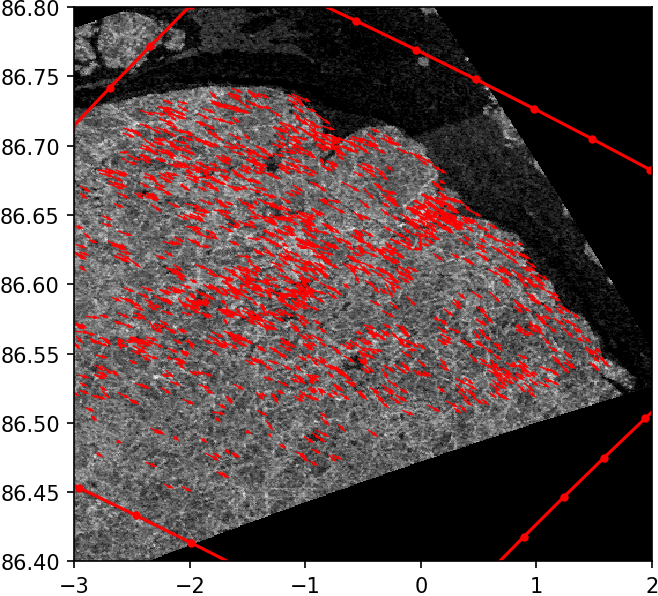
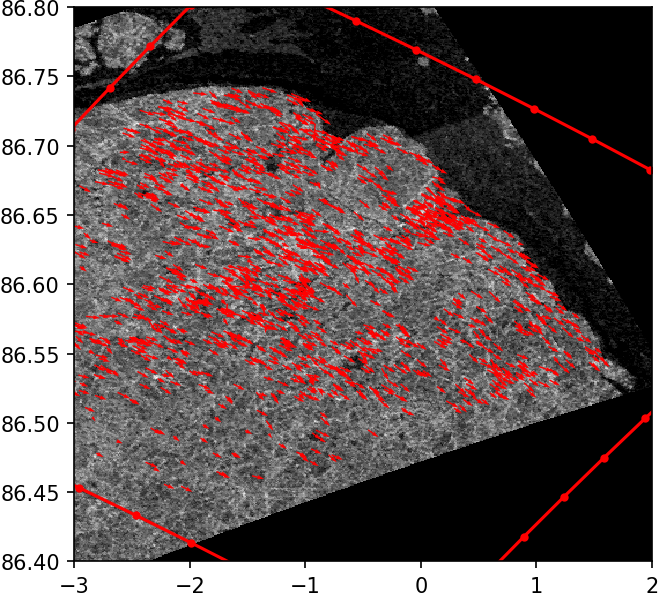
optional use of time_coverage_start

diff --git a/sea_ice_drift/tests.py b/sea_ice_drift/tests.py
@@ -50,7 +50,7 @@ from sea_ice_drift.pmlib import (get_rotated_template,
 
 from sea_ice_drift.seaicedrift import SeaIceDrift
 
-class SeaIceDriftLibTests(unittest.TestCase):
+class SeaIceDriftTestBase(unittest.TestCase):
     def setUp(self):
         ''' Load test data '''
         testDir = os.getenv('ICE_DRIFT_TEST_DATA_DIR')
@@ -61,20 +61,19 @@ class SeaIceDriftLibTests(unittest.TestCase):
             sys.exit('Not enough test files in %s' % testDir)
         # sort by date
         dates = [os.path.basename(f).split('_')[4] for f in testFiles]
-        self.testFiles = [str(f)
-                     for f in np.array(testFiles)[np.argsort(dates)]]
+        self.testFiles = [str(f) for f in np.array(testFiles)[np.argsort(dates)]]
         self.n1 = Nansat(self.testFiles[0])
         self.n2 = Nansat(self.testFiles[1])
-        self.img1 = self.n1['sigma0_HV']
-        self.img2 = self.n2['sigma0_HV']
         self.imgMin = 0.001
         self.imgMax = 0.013
         self.nFeatures = 5000
+        self.img1 = get_uint8_image(self.n1['sigma0_HV'], self.imgMin, self.imgMax)
+        self.img2 = get_uint8_image(self.n2['sigma0_HV'], self.imgMin, self.imgMax)
 
+class SeaIceDriftLibTests(SeaIceDriftTestBase):
     def test_get_uint8_image(self):
         ''' Shall scale image values from float (or any) to 0 - 255 [uint8] '''
-
-        imageUint8 = get_uint8_image(self.img1, self.imgMin, self.imgMax)
+        imageUint8 = get_uint8_image(self.n1['sigma0_HV'], self.imgMin, self.imgMax)
         plt.imsave('sea_ice_drift_tests_%s.png' % inspect.currentframe().f_code.co_name,
                     imageUint8, vmin=0, vmax=255)
 
@@ -84,10 +83,8 @@ class SeaIceDriftLibTests(unittest.TestCase):
 
     def test_get_displacement_km(self):
         ''' Shall find matching coordinates and plot quiver in lon/lat'''
-        img1 = get_uint8_image(self.img1, self.imgMin, self.imgMax)
-        img2 = get_uint8_image(self.img2, self.imgMin, self.imgMax)
-        keyPoints1, descr1 = find_key_points(img1, nFeatures=self.nFeatures)
-        keyPoints2, descr2 = find_key_points(img2, nFeatures=self.nFeatures)
+        keyPoints1, descr1 = find_key_points(self.img1, nFeatures=self.nFeatures)
+        keyPoints2, descr2 = find_key_points(self.img2, nFeatures=self.nFeatures)
         x1, y1, x2, y2 = get_match_coords(keyPoints1, descr1,
                                           keyPoints2, descr2)
         h = get_displacement_km(self.n1, x1, y1, self.n2, x2, y2)
@@ -100,10 +97,8 @@ class SeaIceDriftLibTests(unittest.TestCase):
 
     def test_get_displacement_pix(self):
         ''' Shall find matching coordinates and plot quiver in pixel/line'''
-        img1 = get_uint8_image(self.img1, self.imgMin, self.imgMax)
-        img2 = get_uint8_image(self.img2, self.imgMin, self.imgMax)
-        keyPoints1, descr1 = find_key_points(img1, nFeatures=self.nFeatures)
-        keyPoints2, descr2 = find_key_points(img2, nFeatures=self.nFeatures)
+        keyPoints1, descr1 = find_key_points(self.img1, nFeatures=self.nFeatures)
+        keyPoints2, descr2 = find_key_points(self.img2, nFeatures=self.nFeatures)
         x1, y1, x2, y2 = get_match_coords(keyPoints1, descr1,
                                           keyPoints2, descr2)
         u, v = get_displacement_pix(self.n1, x1, y1, self.n2, x2, y2)
@@ -126,10 +121,8 @@ class SeaIceDriftLibTests(unittest.TestCase):
         self.assertEqual(n[1].max(), 255)
 
     def test_x2y2_interpolation_poly(self):
-        img1 = get_uint8_image(self.img1, self.imgMin, self.imgMax)
-        img2 = get_uint8_image(self.img2, self.imgMin, self.imgMax)
-        keyPoints1, descr1 = find_key_points(img1, nFeatures=self.nFeatures)
-        keyPoints2, descr2 = find_key_points(img2, nFeatures=self.nFeatures)
+        keyPoints1, descr1 = find_key_points(self.img1, nFeatures=self.nFeatures)
+        keyPoints2, descr2 = find_key_points(self.img2, nFeatures=self.nFeatures)
         x1, y1, x2, y2 = get_match_coords(keyPoints1, descr1,
                                           keyPoints2, descr2)
         x2p1, y2p1 = x2y2_interpolation_poly(x1, y1, x2, y2, x1, y1, 1)
@@ -149,10 +142,8 @@ class SeaIceDriftLibTests(unittest.TestCase):
         self.assertEqual(len(x2p1), len(x1))
 
     def test_x2y2_interpolation_near(self):
-        img1 = get_uint8_image(self.img1, self.imgMin, self.imgMax)
-        img2 = get_uint8_image(self.img2, self.imgMin, self.imgMax)
-        keyPoints1, descr1 = find_key_points(img1, nFeatures=self.nFeatures)
-        keyPoints2, descr2 = find_key_points(img2, nFeatures=self.nFeatures)
+        keyPoints1, descr1 = find_key_points(self.img1, nFeatures=self.nFeatures)
+        keyPoints2, descr2 = find_key_points(self.img2, nFeatures=self.nFeatures)
         x1, y1, x2, y2 = get_match_coords(keyPoints1, descr1,
                                           keyPoints2, descr2)
         x2p1, y2p1 = x2y2_interpolation_near(x1, y1, x2, y2, x1, y1)
@@ -166,10 +157,8 @@ class SeaIceDriftLibTests(unittest.TestCase):
         self.assertEqual(len(x2p1), len(x1))
 
     def test_get_drift_vectors(self):
-        img1 = get_uint8_image(self.img1, self.imgMin, self.imgMax)
-        img2 = get_uint8_image(self.img2, self.imgMin, self.imgMax)
-        keyPoints1, descr1 = find_key_points(img1, nFeatures=self.nFeatures)
-        keyPoints2, descr2 = find_key_points(img2, nFeatures=self.nFeatures)
+        keyPoints1, descr1 = find_key_points(self.img1, nFeatures=self.nFeatures)
+        keyPoints2, descr2 = find_key_points(self.img2, nFeatures=self.nFeatures)
         x1, y1, x2, y2 = get_match_coords(keyPoints1, descr1,
                                           keyPoints2, descr2)
         u, v, lon1, lat1, lon2, lat2 = get_drift_vectors(self.n1, x1, y1,
@@ -190,79 +179,80 @@ class SeaIceDriftLibTests(unittest.TestCase):
         self.assertEqual(a.shape, b.shape)
 
 
-class SeaIceDriftFTLibTests(SeaIceDriftLibTests):
+class SeaIceDriftFTLibTests(SeaIceDriftTestBase):
+    def setUp(self):
+        super(SeaIceDriftFTLibTests, self).setUp()
+        self.keyPoints1, self.descr1 = find_key_points(self.img1, nFeatures=self.nFeatures)
+        self.keyPoints2, self.descr2 = find_key_points(self.img2, nFeatures=self.nFeatures)
+
     def test_find_key_points(self):
         ''' Shall find key points using default values '''
-        img1 = get_uint8_image(self.img1, self.imgMin, self.imgMax)
-        keyPoints1, descr1 = find_key_points(img1)
-
-        self.assertTrue(len(keyPoints1) > 1000)
+        self.assertTrue(len(self.keyPoints1) > 1000)
 
     def test_get_match_coords(self):
         ''' Shall find matching coordinates '''
-        img1 = get_uint8_image(self.img1, self.imgMin, self.imgMax)
-        img2 = get_uint8_image(self.img2, self.imgMin, self.imgMax)
-        keyPoints1, descr1 = find_key_points(img1, nFeatures=self.nFeatures)
-        keyPoints2, descr2 = find_key_points(img2, nFeatures=self.nFeatures)
-        x1, y1, x2, y2 = get_match_coords(keyPoints1, descr1,
-                                          keyPoints2, descr2)
-        self.assertTrue(len(keyPoints1) > len(x1))
-        self.assertTrue(len(keyPoints2) > len(x2))
+        x1, y1, x2, y2 = get_match_coords(self.keyPoints1, self.descr1,
+                                          self.keyPoints2, self.descr2)
+        self.assertTrue(len(self.keyPoints1) > len(x1))
+        self.assertTrue(len(self.keyPoints2) > len(x2))
 
     def test_domain_filter(self):
         ''' Shall leave keypoints from second image withn domain of the first '''
-        img1 = get_uint8_image(self.img1, self.imgMin, self.imgMax)
-        img2 = get_uint8_image(self.img2, self.imgMin, self.imgMax)
-        keyPoints1, descr1 = find_key_points(img1, nFeatures=self.nFeatures)
-        keyPoints2, descr2 = find_key_points(img2, nFeatures=self.nFeatures)
-
-        keyPoints2f, descr2f = domain_filter(self.n2, keyPoints2, descr2,
+        self.keyPoints2f, self.descr2f = domain_filter(self.n2, self.keyPoints2, self.descr2,
                                              self.n1, domainMargin=100)
 
         # plot dots
-        cols1 = [kp.pt[0] for kp in keyPoints1]
-        rows1 = [kp.pt[1] for kp in keyPoints1]
+        cols1 = [kp.pt[0] for kp in self.keyPoints1]
+        rows1 = [kp.pt[1] for kp in self.keyPoints1]
         lon1, lat1 = self.n1.transform_points(cols1, rows1, 0)
-        cols2 = [kp.pt[0] for kp in keyPoints2f]
-        rows2 = [kp.pt[1] for kp in keyPoints2f]
+        cols2 = [kp.pt[0] for kp in self.keyPoints2f]
+        rows2 = [kp.pt[1] for kp in self.keyPoints2f]
         lon2, lat2 = self.n2.transform_points(cols2, rows2, 0)
         plt.plot(lon1, lat1, '.')
         plt.plot(lon2, lat2, '.')
         plt.savefig('sea_ice_drift_tests_%s.png' % inspect.currentframe().f_code.co_name)
         plt.close('all')
 
-        self.assertTrue(len(descr2f) < len(descr2))
+        self.assertTrue(len(self.descr2f) < len(self.descr2))
 
-    def test_max_drift_filter(self):
+    def test_max_drift_filter_speed(self):
         '''Shall keep only slow drift '''
-        maxSpeed = 30 # km
-        img1 = get_uint8_image(self.img1, self.imgMin, self.imgMax)
-        img2 = get_uint8_image(self.img2, self.imgMin, self.imgMax)
-        keyPoints1, descr1 = find_key_points(img1, nFeatures=self.nFeatures)
-        keyPoints2, descr2 = find_key_points(img2, nFeatures=self.nFeatures)
-        x1, y1, x2, y2 = get_match_coords(keyPoints1, descr1,
-                                          keyPoints2, descr2,
+        x1, y1, x2, y2 = get_match_coords(self.keyPoints1, self.descr1,
+                                          self.keyPoints2, self.descr2,
                                           ratio_test=0.8)
         x1f, y1f, x2f, y2f = max_drift_filter(self.n1, x1, y1,
-                                          self.n2, x2, y2)
+                                          self.n2, x2, y2,
+                                          max_speed=0.3)
+        self.assertTrue(len(x1f) > 0)
+        self.assertTrue(len(x1f) < len(x1))
 
+        # remove time_coverage_start
+        self.n1.vrt.dataset.SetMetadata({})
+
+        # test that
+        with self.assertRaises(ValueError):
+            x1f, y1f, x2f, y2f = max_drift_filter(self.n1, x1, y1,
+                                          self.n2, x2, y2,
+                                          max_speed=0.3)
+
+
+        x1f, y1f, x2f, y2f = max_drift_filter(self.n1, x1, y1,
+                                          self.n2, x2, y2,
+                                          max_drift=1000)
+        self.assertTrue(len(x1f) > 0)
         self.assertTrue(len(x1f) < len(x1))
 
     def test_lstsq_filter(self):
         ''' Shall filter out not matching points '''
-        img1 = get_uint8_image(self.img1, self.imgMin, self.imgMax)
-        img2 = get_uint8_image(self.img2, self.imgMin, self.imgMax)
-        keyPoints1, descr1 = find_key_points(img1, nFeatures=self.nFeatures)
-        keyPoints2, descr2 = find_key_points(img2, nFeatures=self.nFeatures)
-        x1, y1, x2, y2 = get_match_coords(keyPoints1, descr1,
-                                          keyPoints2, descr2,
+        x1, y1, x2, y2 = get_match_coords(self.keyPoints1, self.descr1,
+                                          self.keyPoints2, self.descr2,
                                           ratio_test=0.8)
 
         x1f, y1f, x2f, y2f = lstsq_filter(x1, y1, x2, y2)
         self.assertTrue(len(x1) > len(x1f))
 
 
-class SeaIceDriftPMLibTests(SeaIceDriftLibTests):
+class SeaIceDriftPMLibTests(SeaIceDriftTestBase):
     def test_get_rotated_template(self):
         ''' Shall plot two templates with and without rotation '''
         temp_rot00 = get_rotated_template(self.img1, 100, 300, 50, 0)
@@ -280,17 +270,15 @@ class SeaIceDriftPMLibTests(SeaIceDriftLibTests):
 
     def test_get_distance_to_nearest_keypoint(self):
         ''' Shall create vector of distances '''
-        img1 = get_uint8_image(self.img1, self.imgMin, self.imgMax)
-        img2 = get_uint8_image(self.img2, self.imgMin, self.imgMax)
-        keyPoints1, descr1 = find_key_points(img1, nFeatures=self.nFeatures)
-        keyPoints2, descr2 = find_key_points(img2, nFeatures=self.nFeatures)
+        keyPoints1, descr1 = find_key_points(self.img1, nFeatures=self.nFeatures)
+        keyPoints2, descr2 = find_key_points(self.img2, nFeatures=self.nFeatures)
         x1, y1, x2, y2 = get_match_coords(keyPoints1, descr1,
                                           keyPoints2, descr2)
 
-        dist = get_distance_to_nearest_keypoint(x1, y1, img1.shape)
+        dist = get_distance_to_nearest_keypoint(x1, y1, self.img1.shape)
         plt.imsave('sea_ice_drift_tests_%s.png' % inspect.currentframe().f_code.co_name,
                     dist)
-        self.assertEqual(dist.shape, img1.shape)
+        self.assertEqual(dist.shape, self.img1.shape)
 
     def test_get_initial_rotation(self):
         ''' Shall find angle between images '''
@@ -318,7 +306,7 @@ class SeaIceDriftPMLibTests(SeaIceDriftLibTests):
         plt.close('all')
 
 
-class SeaIceDriftClassTests(SeaIceDriftLibTests):
+class SeaIceDriftClassTests(SeaIceDriftTestBase):
     def test_integrated(self):
         ''' Shall use all developed functions for feature tracking'''
         lon1pm, lat1pm = np.meshgrid(np.linspace(-3, 2, 50),

diff --git a/sea_ice_drift/ftlib.py b/sea_ice_drift/ftlib.py
@@ -20,7 +20,8 @@ import numpy as np
 import cv2
 
 from sea_ice_drift.lib import (get_speed_ms,
-                               x2y2_interpolation_poly)
+                               x2y2_interpolation_poly,
+                               get_displacement_km)
 
 def find_key_points(image,
                     edgeThreshold=34,
@@ -140,7 +141,7 @@ def domain_filter(n, keyPoints, descr, domain, domainMargin=0, **kwargs):
     print('Domain filter: %d -> %d' % (len(keyPoints), len(gpi[gpi])))
     return list(np.array(keyPoints)[gpi]), descr[gpi]
 
-def max_drift_filter(n1, x1, y1, n2, x2, y2, maxDrift=0.5, **kwargs):
+def max_drift_filter(n1, x1, y1, n2, x2, y2, max_speed=0.5, max_drift=None, **kwargs):
     ''' Filter out too high drift (m/s)
     Parameters
     ----------
@@ -150,15 +151,52 @@ def max_drift_filter(n1, x1, y1, n2, x2, y2, maxDrift=0.5, **kwargs):
         n2 : Second Nansat object
         x2 : 1D vector - X coordinates of keypoints on image 2
         y2 : 1D vector - Y coordinates of keypoints on image 2
-        maxDrift : float - maximum allowed ice drift speed, m/s
+        max_speed : float - maximum allowed ice drift speed, m/s
+        max_drift : float - maximum allowed drift distance, meters
+
     Returns
     -------
         x1 : 1D vector - filtered source X coordinates on img1, pix
         y1 : 1D vector - filtered source Y coordinates on img1, pix
         x2 : 1D vector - filtered destination X coordinates on img2, pix
         y2 : 1D vector - filtered destination Y coordinates on img2, pix
+
+    Note
+    ----
+        If time_coverage_start is not avaialabe from input data then the <max_speed> threshold
+        is not used and the user should set value for <max_drift>.
+
     '''
-    gpi = get_speed_ms(n1, x1, y1, n2, x2, y2) <= maxDrift
+    # chack if input datasets have time stamp
+    try:
+        n1_time_coverage_start = n1.time_coverage_start
+        n2_time_coverage_start = n2.time_coverage_start
+    except ValueError:
+        data_has_timestamp = False
+    else:
+        data_has_timestamp = True
+
+    if data_has_timestamp:
+        # if datasets have timestamp compare with speed
+        gpi = get_speed_ms(n1, x1, y1, n2, x2, y2) <= max_speed
+    elif max_drift is not None:
+        # if datasets don't have timestamp compare with displacement
+        gpi = 1000.*get_displacement_km(n1, x1, y1, n2, x2, y2) <= max_drift
+    else:
+        # if max displacement is not given - raise error
+        raise ValueError('''
+
+        Error while filtering matching vectors!
+        Input data does not have time stamp, and <max_drift> is not set.
+        Either use data supported by Nansat, or
+        provide a value for <max_drift> - maximum allowed ice displacement between images (meters).
+        Examples:
+            uft, vft, lon1ft, lat1ft, lon2ft, lat2ft = sid.get_drift_FT(max_drift=10000)
+            x1, y1, x2, y2 = feature_tracking(n1, n2, max_drift=10000)
+        Vectors with displacement higher than <max_drift> will be removed.
+
+        ''')
+
     print('MaxDrift filter: %d -> %d' % (len(x1), len(gpi[gpi])))
     return x1[gpi], y1[gpi], x2[gpi], y2[gpi]
 
@@ -201,10 +239,13 @@ def feature_tracking(n1, n2, **kwargs):
         n1 : First Nansat object with 2D UInt8 matrix
         n2 : Second Nansat object with 2D UInt8 matrix
         domainMargin : int - how much to crop from size of domain
-        maxDrift : float - maximum allow ice displacement, km
+        max_speed : float - maximum allow ice drift speed, m/s
+        max_drift : float - maximum allow ice drift displacement, m
         **kwargs : parameters for functions:
             find_key_points
+            domain_filter
             get_match_coords
+            max_drift_filter
             lstsq_filter
     Returns
     -------
